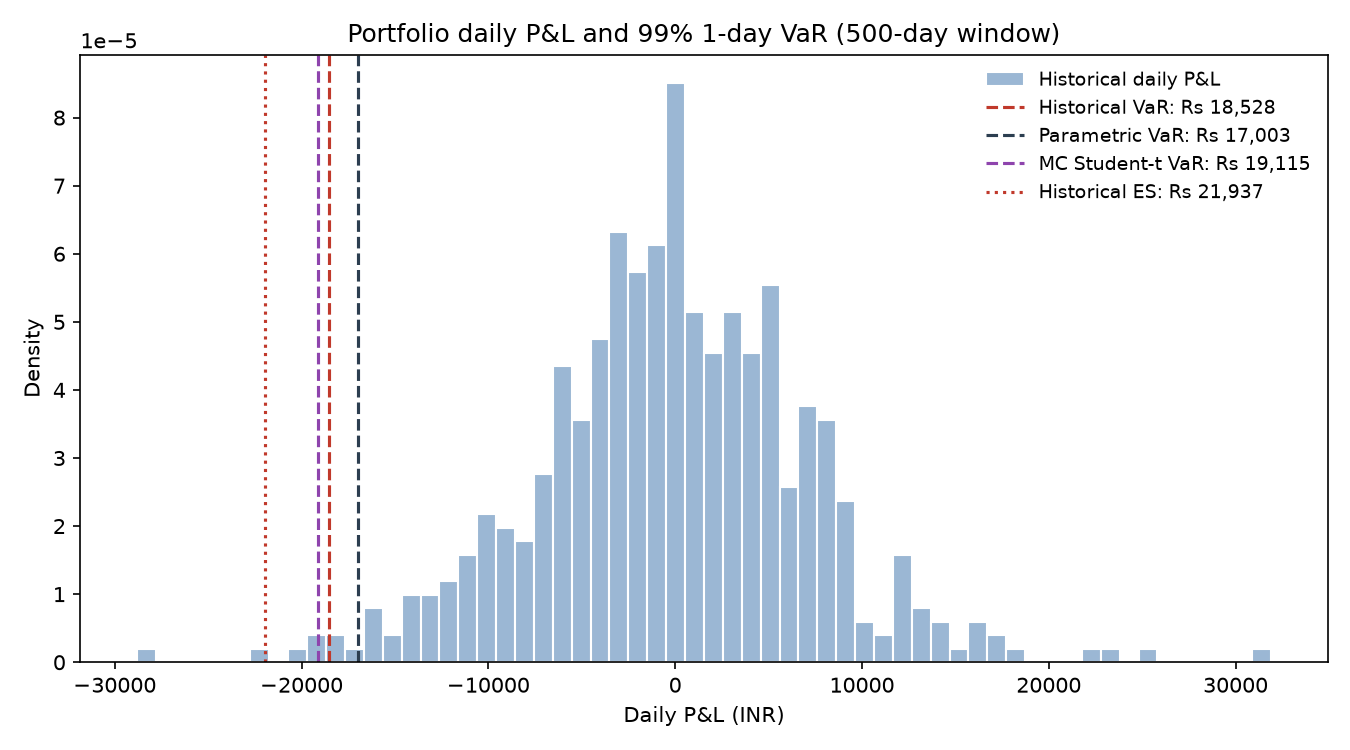
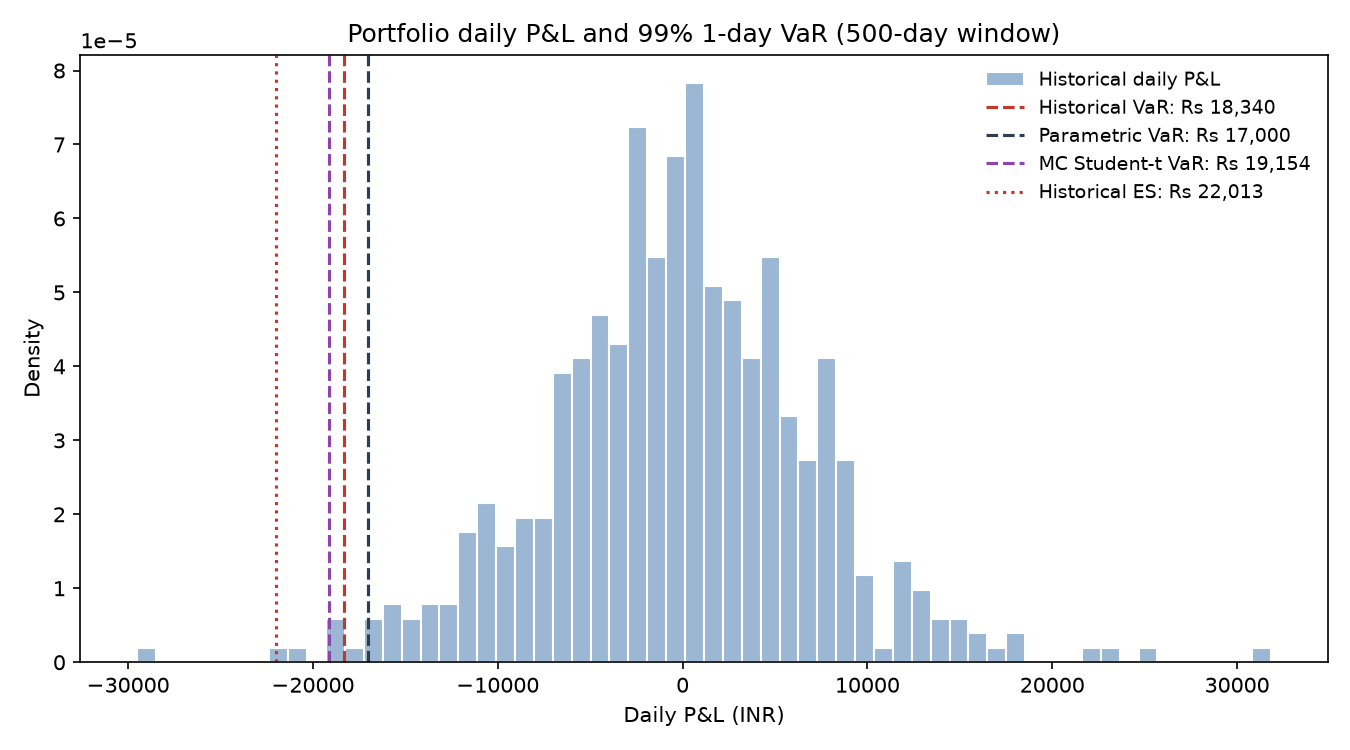
Day 2: backtesting with Kupiec, Christoffersen, Basel; fix price-scale errors

diff --git a/risk_engine/backtest.py b/risk_engine/backtest.py
@@ -1,0 +1,121 @@
+"""VaR backtesting: did the model's VaR actually hold up day by day?
+
+Idea: every day, compute VaR using ONLY the data available up to yesterday,
+then compare it with today's actual P&L. If today's loss is bigger than VaR,
+that's an "exception" (also called a breach or exceedance).
+
+At 99% confidence over 250 days we expect about 2.5 exceptions.
+  - Far more  -> model UNDERestimates risk (dangerous).
+  - Zero      -> model may be too conservative (wastes capital), or just lucky.
+
+Because positions are held fixed in INR, the portfolio P&L series alone is enough:
+std of portfolio P&L over a window = sqrt(v' Cov v), the same number as Day 1's parametric VaR.
+"""
+import numpy as np
+import pandas as pd
+from scipy.special import xlogy
+from scipy.stats import binom, chi2, norm
+
+
+# ---------- Rolling VaR forecasts (no look-ahead: .shift(1) uses only past data) ----------
+def rolling_historical_var(pnl, window, alpha=0.99):
+    return -pnl.rolling(window).quantile(1 - alpha).shift(1)
+
+
+def rolling_parametric_var(pnl, window, alpha=0.99):
+    return norm.ppf(alpha) * pnl.rolling(window).std().shift(1)
+
+
+def ewma_var(pnl, lam=0.94, alpha=0.99):
+    """RiskMetrics EWMA: sigma_t^2 = lam * sigma_{t-1}^2 + (1 - lam) * pnl_{t-1}^2.
+
+    Recent days get more weight, so VaR jumps quickly when markets get volatile.
+    This targets the main weakness of equal-weighted windows: volatility clustering.
+    """
+    var_t = (pnl ** 2).ewm(alpha=1 - lam, adjust=False).mean().shift(1)
+    return norm.ppf(alpha) * np.sqrt(var_t)
+
+
+# ---------- Statistical tests ----------
+def kupiec_pof(exceptions, days, alpha=0.99):
+    """Kupiec Proportion of Failures test: is the exception RATE consistent with 1%?
+
+    LR = -2 ln[(1-p)^(T-x) p^x] + 2 ln[(1-x/T)^(T-x) (x/T)^x]   ~ chi-square(1)
+    p = expected exception rate (1%), x = exceptions, T = days.
+    Reject the model at 95% confidence if LR > 3.84 (p-value < 0.05).
+    """
+    p, x, T = 1 - alpha, exceptions, days
+    phat = x / T
+    log_null = xlogy(T - x, 1 - p) + xlogy(x, p)
+    log_alt = xlogy(T - x, 1 - phat) + xlogy(x, phat)
+    lr = -2 * (log_null - log_alt)
+    return lr, 1 - chi2.cdf(lr, 1)
+
+
+def christoffersen_independence(hits):
+    """Christoffersen test: do exceptions CLUSTER (one breach followed by another)?
+
+    A good model's exceptions should be independent. Clustering means the model
+    reacts too slowly when volatility rises -- exactly what happens in a crisis.
+    """
+    h = np.asarray(hits, dtype=int)
+    prev, curr = h[:-1], h[1:]
+    n00 = np.sum((prev == 0) & (curr == 0)); n01 = np.sum((prev == 0) & (curr == 1))
+    n10 = np.sum((prev == 1) & (curr == 0)); n11 = np.sum((prev == 1) & (curr == 1))
+
+    pi0 = n01 / (n00 + n01) if (n00 + n01) else 0.0   # P(breach | no breach yesterday)
+    pi1 = n11 / (n10 + n11) if (n10 + n11) else 0.0   # P(breach | breach yesterday)
+    pi = (n01 + n11) / (n00 + n01 + n10 + n11)
+
+    log_null = xlogy(n00 + n10, 1 - pi) + xlogy(n01 + n11, pi)
+    log_alt = xlogy(n00, 1 - pi0) + xlogy(n01, pi0) + xlogy(n10, 1 - pi1) + xlogy(n11, pi1)
+    lr = -2 * (log_null - log_alt)
+    return lr, 1 - chi2.cdf(lr, 1)
+
+
+def basel_traffic_light(exceptions, days=250, alpha=0.99):
+    """Basel traffic-light zone for a VaR model.
+
+    Zones come from the binomial distribution: how likely is it to see this many
+    exceptions or fewer if the model were correct?
+      GREEN  if that probability is below 95%
+      RED    if it is 99.99% or higher (model almost certainly wrong)
+      YELLOW in between
+    For 250 days at 99% this gives the familiar table: green 0-4, yellow 5-9, red 10+.
+    The capital multiplier (base 3.0) only applies to the standard 250-day test.
+    """
+    cum = binom.cdf(exceptions, days, 1 - alpha)
+    zone = "GREEN" if cum < 0.95 else ("RED" if cum >= 0.9999 else "YELLOW")
+    mult = None
+    if days == 250:
+        mult = 3.0 if exceptions <= 4 else 4.0 if exceptions >= 10 else \
+            {5: 3.40, 6: 3.50, 7: 3.65, 8: 3.75, 9: 3.85}[exceptions]
+    return zone, mult
+
+
+# ---------- Put it together ----------
+def backtest(pnl, var_forecast, alpha=0.99):
+    """Compare forecasts with actual P&L. Returns a summary dict and a daily frame."""
+    df = pd.DataFrame({"pnl": pnl, "var": var_forecast}).dropna()
+    df["exception"] = df["pnl"] < -df["var"]
+    T, x = len(df), int(df["exception"].sum())
+
+    zone, mult = basel_traffic_light(x, T, alpha)
+    lr_pof, p_pof = kupiec_pof(x, T, alpha)
+    lr_ind, p_ind = christoffersen_independence(df["exception"])
+
+    summary = {
+        "Days": T,
+        "Exceptions": x,
+        "Expected": round(T * (1 - alpha), 1),
+        "Exception rate %": round(100 * x / T, 2),
+        "Basel zone": zone,
+        "Capital multiplier": mult,
+        "Kupiec LR": round(lr_pof, 3),
+        "Kupiec p-value": round(p_pof, 3),
+        "Kupiec result": "Reject" if p_pof < 0.05 else "Accept",
+        "Indep. LR": round(lr_ind, 3),
+        "Indep. p-value": round(p_ind, 3),
+        "Indep. result": "Clustered" if p_ind < 0.05 else "Independent",
+    }
+    return summary, df

diff --git a/run_backtest.py b/run_backtest.py
@@ -1,0 +1,98 @@
+"""Day 2: backtest 99% 1-day VaR models over the last 250 days (or more).
+
+Usage:
+    python run_backtest.py               # last 250 days (Basel standard)
+    python run_backtest.py --days 2000   # longer history, includes the 2020 COVID crash
+    python run_backtest.py --synthetic   # offline test
+"""
+import argparse
+from pathlib import Path
+
+import matplotlib
+matplotlib.use("Agg")
+import matplotlib.pyplot as plt
+import pandas as pd
+
+from risk_engine import config as C
+from risk_engine.backtest import (backtest, ewma_var, rolling_historical_var,
+                                  rolling_parametric_var)
+from risk_engine.data import compute_returns, load_prices, synthetic_prices
+from risk_engine.var import portfolio_pnl
+
+OUT = Path(__file__).resolve().parent / "outputs"
+
+
+def main():
+    ap = argparse.ArgumentParser()
+    ap.add_argument("--synthetic", action="store_true")
+    ap.add_argument("--refresh", action="store_true")
+    ap.add_argument("--days", type=int, default=C.BACKTEST_DAYS)
+    args = ap.parse_args()
+    OUT.mkdir(exist_ok=True)
+
+    tickers = list(C.PORTFOLIO)
+    if args.synthetic:
+        prices = synthetic_prices(tickers, seed=C.SEED)
+    else:
+        prices = load_prices(tickers, C.START_DATE, C.END_DATE,
+                             reference=C.REFERENCE_TICKER, refresh=args.refresh)
+    positions = {t: C.PORTFOLIO[t] for t in prices.columns}
+    pnl = portfolio_pnl(compute_returns(prices), positions)   # full history
+
+    a, W = C.CONFIDENCE, C.WINDOW
+    forecasts = {
+        f"Historical ({W}d)": rolling_historical_var(pnl, W, a),
+        f"Parametric ({W}d)": rolling_parametric_var(pnl, W, a),
+        f"EWMA (lambda={C.EWMA_LAMBDA})": ewma_var(pnl, C.EWMA_LAMBDA, a),
+    }
+
+    # Backtest only the last N days, and only days where every model has a forecast.
+    start = max(f.first_valid_index() for f in forecasts.values())
+    test_pnl = pnl.loc[start:].tail(args.days)
+    print(f"Backtest period: {test_pnl.index[0].date()} to {test_pnl.index[-1].date()} "
+          f"({len(test_pnl)} days), {a:.0%} 1-day VaR\n")
+
+    rows, daily = [], {}
+    for name, f in forecasts.items():
+        s, df = backtest(test_pnl, f.loc[test_pnl.index], a)
+        rows.append({"Model": name, **s})
+        daily[name] = df
+
+    table = pd.DataFrame(rows).set_index("Model")
+    with pd.option_context("display.width", 200, "display.max_columns", 20):
+        print(table[["Days", "Exceptions", "Expected", "Basel zone", "Capital multiplier"]])
+        print()
+        print(table[["Kupiec LR", "Kupiec p-value", "Kupiec result",
+                     "Indep. LR", "Indep. p-value", "Indep. result"]])
+
+    # List the exception days: in a real risk team, each one gets investigated.
+    hist_name = next(iter(forecasts))
+    exc = daily[hist_name].query("exception")[["pnl", "var"]].rename(
+        columns={"pnl": "Actual P&L", "var": "VaR forecast"})
+    exc["Excess loss"] = -exc["Actual P&L"] - exc["VaR forecast"]
+    print(f"\nException days ({hist_name}):")
+    print(exc.round(0).to_string() if len(exc) else "  none")
+
+    table.to_csv(OUT / f"backtest_summary_{args.days}d.csv")
+    exc.to_csv(OUT / f"backtest_exceptions_{args.days}d.csv", float_format="%.2f")
+
+    # Plot: actual P&L vs -VaR, exceptions marked
+    fig, ax = plt.subplots(figsize=(11, 5))
+    ax.bar(test_pnl.index, test_pnl, width=1.0, color="#b8c7d9", label="Actual daily P&L")
+    colors = ["#c0392b", "#2c3e50", "#27ae60"]
+    for (name, df), col in zip(daily.items(), colors):
+        ax.plot(df.index, -df["var"], color=col, linewidth=1.3, label=f"-VaR: {name}")
+    hits = daily[hist_name].query("exception")
+    ax.scatter(hits.index, hits["pnl"], color="#c0392b", zorder=5, s=28,
+               label=f"Exceptions, historical ({len(hits)})")
+    ax.axhline(0, color="black", linewidth=0.6)
+    ax.set_title(f"VaR backtest: actual P&L vs {a:.0%} 1-day VaR ({len(test_pnl)} days)")
+    ax.set_ylabel("P&L (INR)")
+    ax.legend(frameon=False, fontsize=9, loc="upper center", bbox_to_anchor=(0.5, -0.08), ncol=3)
+    fig.tight_layout()
+    fig.savefig(OUT / f"backtest_{args.days}d.png", dpi=150)
+    print(f"\nSaved results and chart to {OUT}/")
+
+
+if __name__ == "__main__":
+    main()

diff --git a/risk_engine/data.py b/risk_engine/data.py
@@ -7,14 +7,62 @@ import pandas as pd
 CACHE = Path(__file__).resolve().parent.parent / "data"
 
 
-def download_prices(tickers, start, end=None):
-    """Download adjusted close prices from Yahoo Finance."""
+def download_prices(tickers, start, end=None, retries=3):
+    """Download adjusted close prices from Yahoo Finance.
+
+    threads=False avoids yfinance's "database is locked" error on Windows,
+    and any ticker that still fails is retried on its own.
+    """
+    import time
     import yfinance as yf
 
-    raw = yf.download(list(tickers), start=start, end=end,
-                      auto_adjust=True, progress=False)
-    prices = raw["Close"] if isinstance(raw.columns, pd.MultiIndex) else raw[["Close"]]
+    def fetch(tks):
+        raw = yf.download(list(tks), start=start, end=end, auto_adjust=True,
+                          progress=False, threads=False)
+        if raw.empty:
+            return pd.DataFrame()
+        close = raw["Close"]
+        return close if isinstance(close, pd.DataFrame) else close.to_frame(tks[0])
+
+    prices = fetch(tickers)
+    for attempt in range(retries):
+        missing = [t for t in tickers if t not in prices or prices[t].notna().sum() == 0]
+        if not missing:
+            break
+        time.sleep(2)
+        for t in missing:
+            got = fetch([t])
+            if not got.empty and got.iloc[:, 0].notna().any():
+                prices = prices.drop(columns=t, errors="ignore").join(got.iloc[:, :1].set_axis([t], axis=1), how="outer")
     return prices.reindex(columns=list(tickers))
+
+
+SPLIT_FACTORS = [2, 3, 4, 5, 10, 20, 25, 50, 100]
+
+
+def fix_unadjusted_splits(prices, threshold=0.5):
+    """Detect and undo stock/ETF splits the data source didn't adjust for.
+
+    A 1:10 split makes the price drop ~90% overnight, which looks like a crash.
+    Rule: if a price falls below half (or more than doubles) in one day, treat it as a
+    split, find the closest standard split ratio, and rescale all earlier prices.
+    The genuine market move on that day is kept (only the split factor is removed).
+    """
+    prices = prices.copy()
+    for col in prices.columns:
+        s = prices[col].dropna()
+        ratio = s / s.shift(1)
+        for date, r in ratio[(ratio < threshold) | (ratio > 1 / threshold)].items():
+            jump = 1 / r if r < 1 else r
+            k = min(SPLIT_FACTORS, key=lambda f: abs(np.log(f / jump)))
+            earlier = prices.index < date
+            if r < 1:
+                prices.loc[earlier, col] /= k      # split: shrink old prices
+            else:
+                prices.loc[earlier, col] *= k      # reverse split: grow old prices
+            print(f"[data fix] {col}: {'1:' if r < 1 else ''}{k}{'' if r < 1 else ':1 reverse'} "
+                  f"split detected on {date.date()} (price ratio {r:.4f}), earlier prices rescaled")
+    return prices
 
 
 def align_to_calendar(prices, reference):
@@ -34,7 +82,11 @@ def load_prices(tickers, start, end=None, reference=None, refresh=False):
 
     if path.exists() and not refresh:
         prices = pd.read_csv(path, index_col=0, parse_dates=True)
-    else:
+        # If the cache is missing a ticker (e.g. a failed download last time), fetch again.
+        if any(t not in prices or prices[t].notna().sum() <= 250 for t in tickers):
+            print("[info] cached prices incomplete, re-downloading")
+            refresh = True
+    if not path.exists() or refresh:
         prices = download_prices(tickers, start, end)
         if prices.dropna(how="all").empty:
             raise RuntimeError("No prices downloaded. Check your internet connection or the "
@@ -45,7 +97,7 @@ def load_prices(tickers, start, end=None, reference=None, refresh=False):
     good = [t for t in tickers if t in prices and prices[t].notna().sum() > 250]
     for t in set(tickers) - set(good):
         print(f"[warning] dropping {t}: not enough price data")
-    prices = prices[good]
+    prices = fix_unadjusted_splits(prices[good])
 
     if reference in good:
         prices = align_to_calendar(prices, reference)

diff --git a/risk_engine/config.py b/risk_engine/config.py
@@ -9,7 +9,7 @@ PORTFOLIO = {
     "INFY.NS":       100_000,  # equity (IT)
     "NIFTYBEES.NS":  150_000,  # Nifty 50 index ETF
     "GOLDBEES.NS":   100_000,  # gold ETF
-    "GILT5YBEES.NS": 100_000,  # 5-year government bond ETF
+    "SETF10GILT.NS": 100_000,  # 5-year government bond ETF
     "INR=X":          50_000,  # USD cash, valued in INR (USD/INR rate)
 }
 
@@ -26,3 +26,7 @@ HORIZONS = [1, 10]          # 1-day VaR and 10-day VaR (10 days = Basel / margin
 MC_SIMULATIONS = 100_000
 MC_T_DOF = 5                # degrees of freedom for the fat-tailed Student-t Monte Carlo
 SEED = 42
+
+# ---------- Day 2: backtesting ----------
+BACKTEST_DAYS = 250         # Basel backtests on the last 250 trading days (~1 year)
+EWMA_LAMBDA = 0.94          # RiskMetrics decay factor: recent days count more

diff --git a/README.md b/README.md
@@ -5,7 +5,7 @@ It estimates how much the portfolio could lose and how much margin a bank should
 
 ## Status
 - [x] **Day 1:** data pipeline, 99% VaR (historical, parametric, Monte Carlo), Expected Shortfall, diversification benefit
-- [ ] **Day 2:** VaR backtesting (Kupiec POF test, Basel traffic light)
+- [x] **Day 2:** VaR backtesting (Kupiec POF, Christoffersen independence, Basel traffic light), EWMA VaR
 - [ ] **Day 3:** stress testing (2008, COVID-19, hypothetical shocks) and initial margin (10-day MPOR)
 - [ ] **Day 4:** Excel reporting with day-on-day commentary
 
@@ -15,6 +15,8 @@ pip install -r requirements.txt
 python run_var.py              # downloads real prices from Yahoo Finance
 python run_var.py --synthetic  # offline test with fake data
 python run_var.py --refresh    # re-download prices
+python run_backtest.py              # backtest the last 250 days
+python run_backtest.py --days 2000  # longer backtest, includes the 2020 COVID crash
 ```
 Prices are cached in `data/prices.csv`. Results go to `outputs/`.
 Change holdings, confidence level or window in `risk_engine/config.py`.
@@ -31,10 +33,24 @@ Change holdings, confidence level or window in `risk_engine/config.py`.
 - **10-day VaR:** 1-day VaR x sqrt(10). This assumes days are independent, which is not true in a crisis.
 - **Diversification benefit:** the sum of each asset's standalone VaR minus the portfolio VaR.
 
+## Backtesting
+Each day, VaR is forecast using only data up to the day before, then compared with that day's actual P&L.
+A loss bigger than VaR is an **exception**. At 99% over 250 days, about 2.5 are expected.
+
+| Test | Question it answers | Fails when |
+|---|---|---|
+| Basel traffic light | Is the exception count acceptable? | 5-9 = yellow (capital multiplier rises), 10+ = red |
+| Kupiec POF | Is the exception rate consistent with 1%? | p-value < 0.05 |
+| Christoffersen independence | Do exceptions cluster together? | p-value < 0.05 (model reacts too slowly to volatility) |
+
+Models compared: historical (500-day window), parametric (500-day window), and EWMA (RiskMetrics, lambda = 0.94), which weights recent days more heavily.
+
 ## Project layout
 ```
 risk_engine/config.py   portfolio and model settings
 risk_engine/data.py     download, cache, align calendars, returns
 risk_engine/var.py      VaR and ES methods
-run_var.py              runs everything, prints a table, saves a CSV and chart
+risk_engine/backtest.py rolling VaR, Kupiec, Christoffersen, Basel traffic light
+run_var.py              Day 1: VaR/ES table and P&L distribution chart
+run_backtest.py         Day 2: backtest table, exception list and chart
 ```
